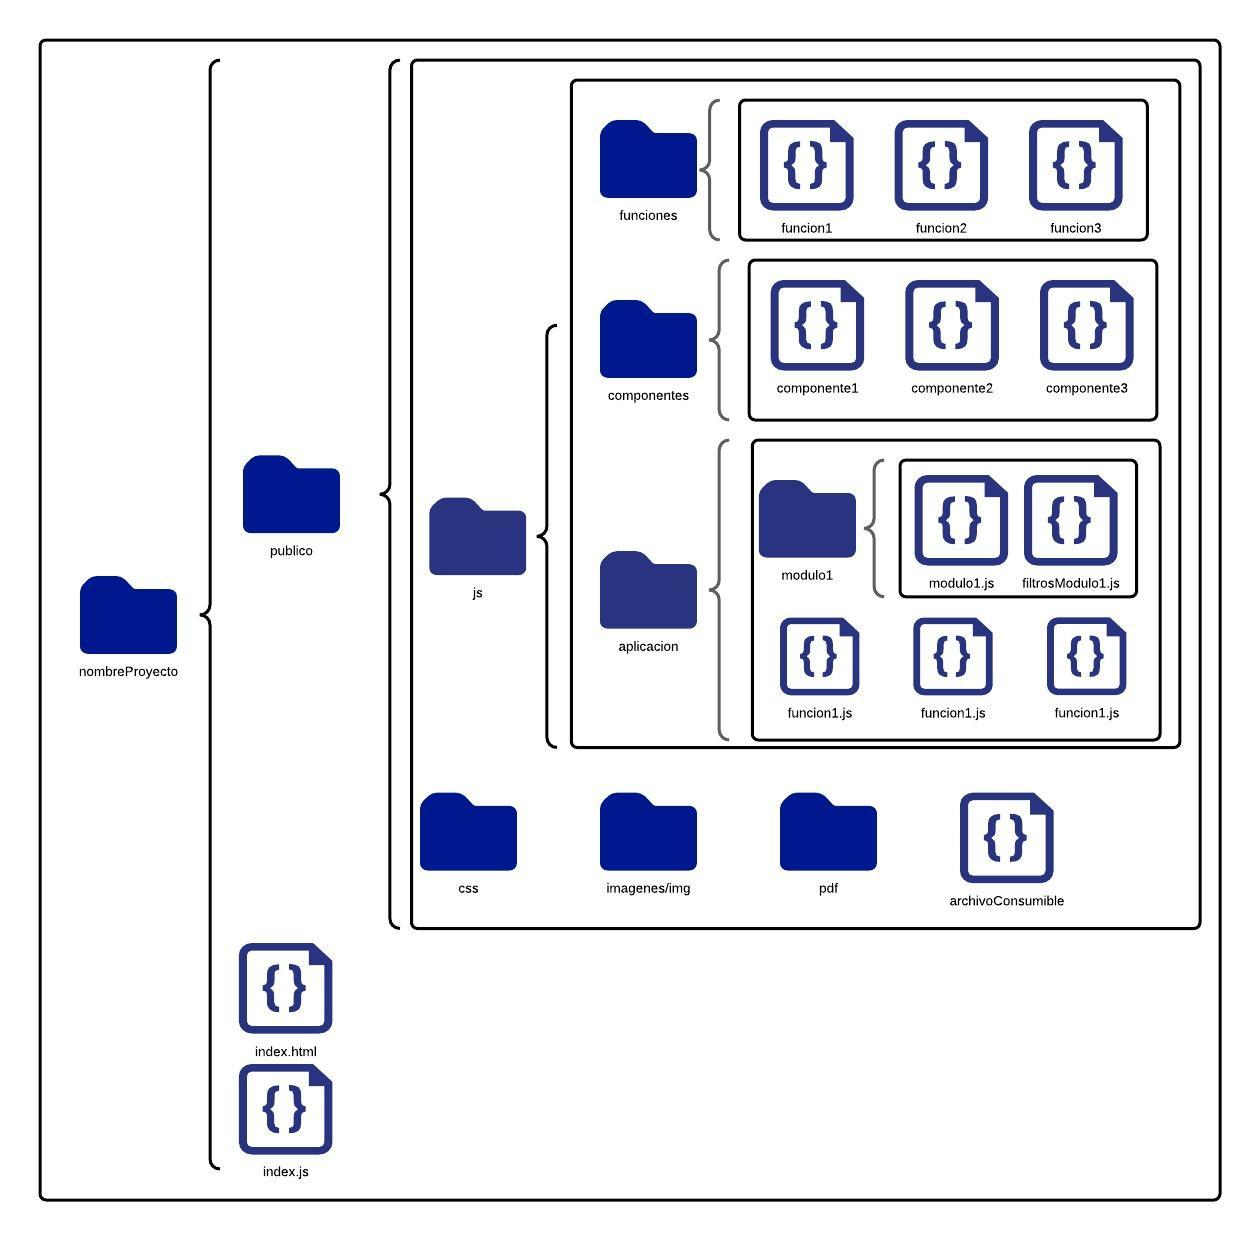
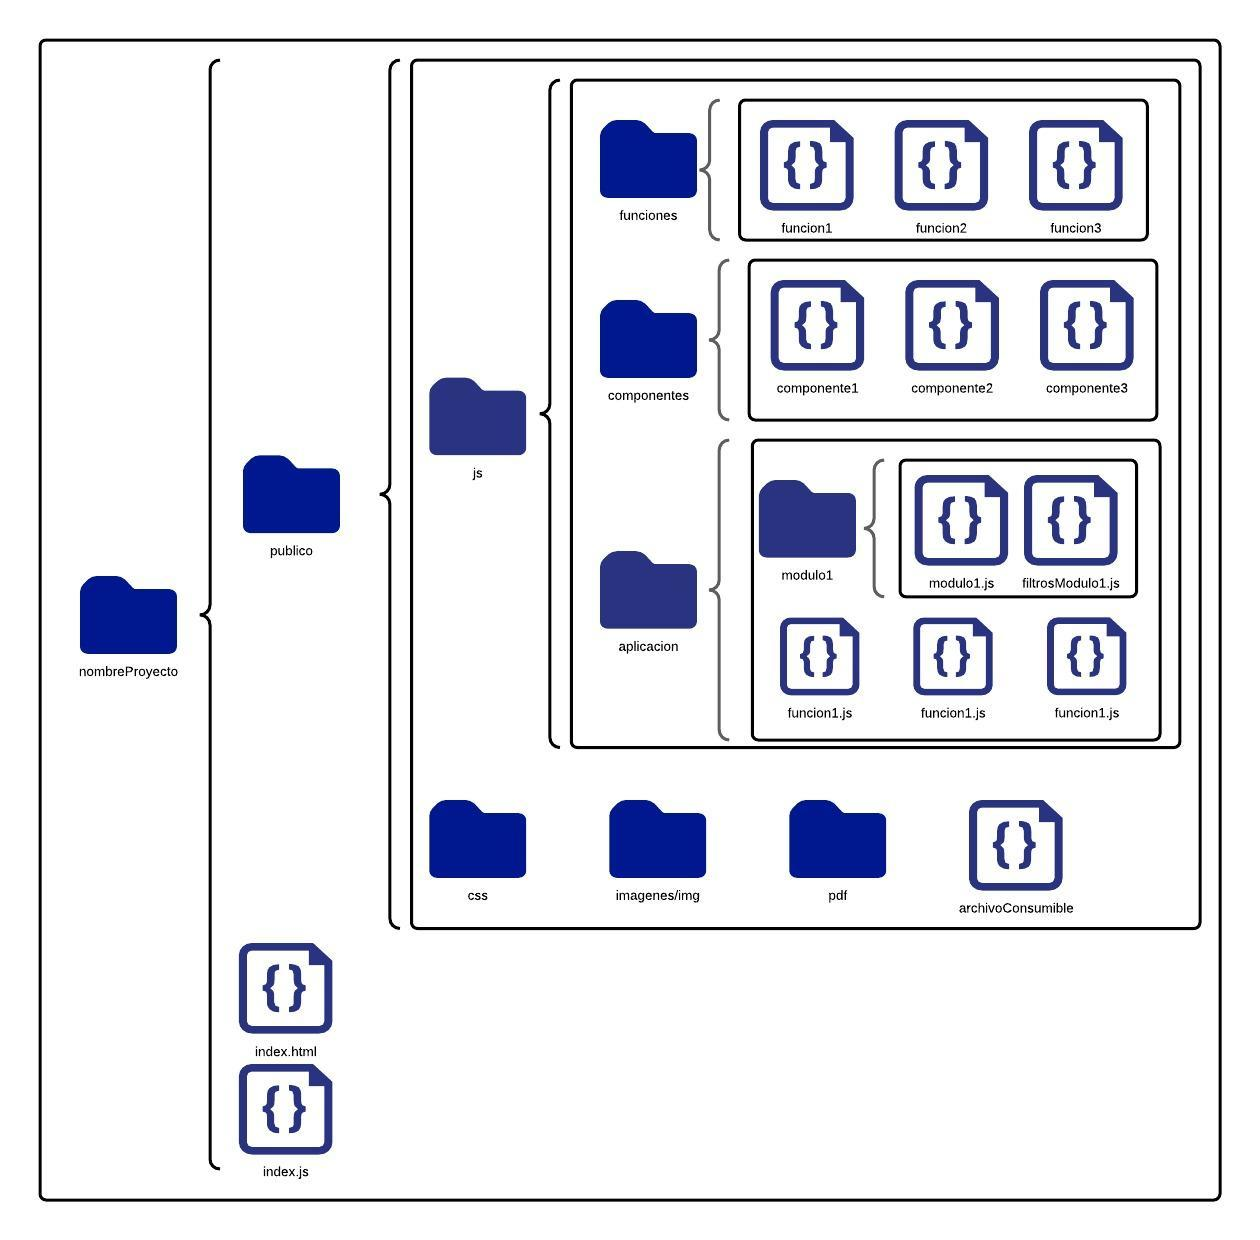
modif

diff --git a/docs/tutorial-organizacion.html b/docs/tutorial-organizacion.html
@@ -46,12 +46,10 @@
 <article>
     <p>Para la organizacion de nuestro proyecto se debe cumplir lo siguiente.</p>
 <p>La carpeta principal se debe llamar igual que el proyecto esto con el fin de que nuestro proyecto sea fácil de identificar.</p>
-<p>Dentro de la carpeta principal se encontrarán 3 carpetas: los <strong>archivos .js</strong>, la carpeta <strong>publico</strong> y los <strong>PHP</strong> al igual que los archivos principales que seran llamados <strong>index.js</strong> e <strong>index.html</strong>.</p>
-<p>Dentro de nuestra carpeta <strong>js</strong> deben de ir todos los archivos <strong>.js</strong> (a excepción del index.js). Esta carpeta se organizará de la siguiente manera: en la raíz de la carpeta se encontrarán todos los componentes, se creará una carpeta llamada <strong>funciones</strong>, se creará una carpeta exclusiva para los módulos del proyecto llamada <strong>aplicación</strong>.</p>
-<p>Dentro de la carpeta <strong>funciones</strong> se almacenaran archivos .js que contengan funciones referentes al framework.</p>
+<p>Dentro de la carpeta principal se encontra una sola carpeta llamada <strong>publico</strong> al igual que los archivos principales que seran llamados <strong>index.js</strong> e <strong>index.html</strong>.</p>
+<p>Dentro de nuestra carpeta <strong>publico</strong> se encontraran las carpetas relacionadas con la aplicacion, esto es, carpetas <em>js, css, img/imagenes, pdf, recibos, etc</em>.</p>
+<p>Dentro de nuestra carpeta <strong>js</strong> deben de ir todos los archivos <strong>.js</strong> (a excepción del index.js). Esta carpeta se organizará de la siguiente manera: en la raíz de la carpeta se encontrarán todos los componentes dentro de su propia carpeta llamada <strong>componentes</strong>, se creará una carpeta llamada <strong>funciones</strong> en la cual se guardaran todas las funciones relacionadas al framework, se creará una carpeta exclusiva para los módulos del proyecto llamada <strong>aplicación</strong>.</p>
 <p>Dentro de la carpeta <strong>aplicacion</strong> en la raíz de dicha carpeta se encontrarán todas las funciones relacionadas con la aplicación, también se debe crear una carpeta por cada módulo que se cree y cada uno tendrá de raíz dos archivos llamados <strong>módulo.js</strong> y <strong>filtrosModulo.js</strong>.</p>
-<p>Dentro de nuestra carpeta <strong>publico</strong> deben de ir todos nuestros archivos que se consumirán en el proyecto, ejemplo de estos son: imágenes, CSS, servicios de SMTP, etc.</p>
-<p>Dentro de la carpeta <strong>php</strong> se debe crear una estructura similar a la de <strong>aplicación</strong> ya que se deben crear en la raíz una carpeta por cada modulo que va a consumir dichos archivos.</p>
 <p><img src="https://github.com/stribesart/Documentacion/blob/main/imagenes/OrganizacionArchivos/index.jpeg?raw=true" alt="OrgProyecto"></p>
 </article>
 
@@ -64,7 +62,7 @@
 <br class="clear">
 
 <footer>
-    Documentation generated by <a href="https://github.com/jsdoc3/jsdoc">JSDoc 3.6.6</a> on Sat Apr 24 2021 11:36:05 GMT-0500 (hora de verano central) using the <a href="https://github.com/clenemt/docdash">docdash</a> theme.
+    Documentation generated by <a href="https://github.com/jsdoc3/jsdoc">JSDoc 3.6.6</a> on Sat Apr 24 2021 13:13:23 GMT-0500 (hora de verano central) using the <a href="https://github.com/clenemt/docdash">docdash</a> theme.
 </footer>
 
 <script>prettyPrint();</script>

diff --git a/docs/Componentes_Select.js.html b/docs/Componentes_Select.js.html
@@ -123,7 +123,7 @@ export async function Select(AOpciones, ACheck = 0) { //Funcion que crea Selects
 <br class="clear">
 
 <footer>
-    Documentation generated by <a href="https://github.com/jsdoc3/jsdoc">JSDoc 3.6.6</a> on Sat Apr 24 2021 11:36:05 GMT-0500 (hora de verano central) using the <a href="https://github.com/clenemt/docdash">docdash</a> theme.
+    Documentation generated by <a href="https://github.com/jsdoc3/jsdoc">JSDoc 3.6.6</a> on Sat Apr 24 2021 13:13:23 GMT-0500 (hora de verano central) using the <a href="https://github.com/clenemt/docdash">docdash</a> theme.
 </footer>
 
 <script>prettyPrint();</script>

diff --git a/docs/tutorial-modulo.html b/docs/tutorial-modulo.html
@@ -239,7 +239,7 @@ Crearemos una funcion llamada <strong>FiltrosUniformes()</strong> y la exportare
 <br class="clear">
 
 <footer>
-    Documentation generated by <a href="https://github.com/jsdoc3/jsdoc">JSDoc 3.6.6</a> on Sat Apr 24 2021 11:36:06 GMT-0500 (hora de verano central) using the <a href="https://github.com/clenemt/docdash">docdash</a> theme.
+    Documentation generated by <a href="https://github.com/jsdoc3/jsdoc">JSDoc 3.6.6</a> on Sat Apr 24 2021 13:13:23 GMT-0500 (hora de verano central) using the <a href="https://github.com/clenemt/docdash">docdash</a> theme.
 </footer>
 
 <script>prettyPrint();</script>

diff --git a/docs/tutorial-moduloGeneral.html b/docs/tutorial-moduloGeneral.html
@@ -73,7 +73,7 @@ Se creara un fragmento con la funcion ya existente CrearFragmento, esto sirve pa
 <br class="clear">
 
 <footer>
-    Documentation generated by <a href="https://github.com/jsdoc3/jsdoc">JSDoc 3.6.6</a> on Sat Apr 24 2021 11:36:06 GMT-0500 (hora de verano central) using the <a href="https://github.com/clenemt/docdash">docdash</a> theme.
+    Documentation generated by <a href="https://github.com/jsdoc3/jsdoc">JSDoc 3.6.6</a> on Sat Apr 24 2021 13:13:23 GMT-0500 (hora de verano central) using the <a href="https://github.com/clenemt/docdash">docdash</a> theme.
 </footer>
 
 <script>prettyPrint();</script>

diff --git a/docs/tutorial-paso3.html b/docs/tutorial-paso3.html
@@ -94,7 +94,7 @@ Actualmente se requiere realizar nuestros proyectos como SPA, esto es para evita
 <br class="clear">
 
 <footer>
-    Documentation generated by <a href="https://github.com/jsdoc3/jsdoc">JSDoc 3.6.6</a> on Sat Apr 24 2021 11:36:05 GMT-0500 (hora de verano central) using the <a href="https://github.com/clenemt/docdash">docdash</a> theme.
+    Documentation generated by <a href="https://github.com/jsdoc3/jsdoc">JSDoc 3.6.6</a> on Sat Apr 24 2021 13:13:23 GMT-0500 (hora de verano central) using the <a href="https://github.com/clenemt/docdash">docdash</a> theme.
 </footer>
 
 <script>prettyPrint();</script>

diff --git a/docs/Componentes_Button.js.html b/docs/Componentes_Button.js.html
@@ -92,7 +92,7 @@ export function Button(text, id, type,dataAttribute, dataValue){
 <br class="clear">
 
 <footer>
-    Documentation generated by <a href="https://github.com/jsdoc3/jsdoc">JSDoc 3.6.6</a> on Sat Apr 24 2021 11:36:05 GMT-0500 (hora de verano central) using the <a href="https://github.com/clenemt/docdash">docdash</a> theme.
+    Documentation generated by <a href="https://github.com/jsdoc3/jsdoc">JSDoc 3.6.6</a> on Sat Apr 24 2021 13:13:23 GMT-0500 (hora de verano central) using the <a href="https://github.com/clenemt/docdash">docdash</a> theme.
 </footer>
 
 <script>prettyPrint();</script>

diff --git a/docs/Componentes_js_ObtieneElementoDom.js.html b/docs/Componentes_js_ObtieneElementoDom.js.html
@@ -75,7 +75,7 @@ export function ObtieneElementoDom(AIdElemento, AQuery = false){
 <br class="clear">
 
 <footer>
-    Documentation generated by <a href="https://github.com/jsdoc3/jsdoc">JSDoc 3.6.6</a> on Sat Apr 24 2021 11:36:05 GMT-0500 (hora de verano central) using the <a href="https://github.com/clenemt/docdash">docdash</a> theme.
+    Documentation generated by <a href="https://github.com/jsdoc3/jsdoc">JSDoc 3.6.6</a> on Sat Apr 24 2021 13:13:23 GMT-0500 (hora de verano central) using the <a href="https://github.com/clenemt/docdash">docdash</a> theme.
 </footer>
 
 <script>prettyPrint();</script>

diff --git a/docs/Componentes_js_ObtieneVariableSession.js.html b/docs/Componentes_js_ObtieneVariableSession.js.html
@@ -65,7 +65,7 @@ export function ObtieneVariableSession(ANombreVariable){
 <br class="clear">
 
 <footer>
-    Documentation generated by <a href="https://github.com/jsdoc3/jsdoc">JSDoc 3.6.6</a> on Sat Apr 24 2021 11:36:05 GMT-0500 (hora de verano central) using the <a href="https://github.com/clenemt/docdash">docdash</a> theme.
+    Documentation generated by <a href="https://github.com/jsdoc3/jsdoc">JSDoc 3.6.6</a> on Sat Apr 24 2021 13:13:23 GMT-0500 (hora de verano central) using the <a href="https://github.com/clenemt/docdash">docdash</a> theme.
 </footer>
 
 <script>prettyPrint();</script>

diff --git a/docs/index.html b/docs/index.html
@@ -77,7 +77,7 @@ Para mas informacion contacto con DCSR.</p></article>
 <br class="clear">
 
 <footer>
-    Documentation generated by <a href="https://github.com/jsdoc3/jsdoc">JSDoc 3.6.6</a> on Sat Apr 24 2021 11:36:05 GMT-0500 (hora de verano central) using the <a href="https://github.com/clenemt/docdash">docdash</a> theme.
+    Documentation generated by <a href="https://github.com/jsdoc3/jsdoc">JSDoc 3.6.6</a> on Sat Apr 24 2021 13:13:23 GMT-0500 (hora de verano central) using the <a href="https://github.com/clenemt/docdash">docdash</a> theme.
 </footer>
 
 <script>prettyPrint();</script>

diff --git a/docs/Componentes_funciones_login.js.html b/docs/Componentes_funciones_login.js.html
@@ -92,7 +92,7 @@ loginForm.addEventListener("submit", async (e) => {
 <br class="clear">
 
 <footer>
-    Documentation generated by <a href="https://github.com/jsdoc3/jsdoc">JSDoc 3.6.6</a> on Sat Apr 24 2021 11:36:05 GMT-0500 (hora de verano central) using the <a href="https://github.com/clenemt/docdash">docdash</a> theme.
+    Documentation generated by <a href="https://github.com/jsdoc3/jsdoc">JSDoc 3.6.6</a> on Sat Apr 24 2021 13:13:23 GMT-0500 (hora de verano central) using the <a href="https://github.com/clenemt/docdash">docdash</a> theme.
 </footer>
 
 <script>prettyPrint();</script>

diff --git a/docs/Componentes_js_Uniformes_TablaUniformes.js.html b/docs/Componentes_js_Uniformes_TablaUniformes.js.html
@@ -152,7 +152,7 @@ export function TablaUniformes(AParameteros) {
 <br class="clear">
 
 <footer>
-    Documentation generated by <a href="https://github.com/jsdoc3/jsdoc">JSDoc 3.6.6</a> on Sat Apr 24 2021 11:36:05 GMT-0500 (hora de verano central) using the <a href="https://github.com/clenemt/docdash">docdash</a> theme.
+    Documentation generated by <a href="https://github.com/jsdoc3/jsdoc">JSDoc 3.6.6</a> on Sat Apr 24 2021 13:13:23 GMT-0500 (hora de verano central) using the <a href="https://github.com/clenemt/docdash">docdash</a> theme.
 </footer>
 
 <script>prettyPrint();</script>

diff --git a/docs/Componentes_js_GeneraElementoDom.js.html b/docs/Componentes_js_GeneraElementoDom.js.html
@@ -64,7 +64,7 @@ export function GeneraElementoDom(AElemento){
 <br class="clear">
 
 <footer>
-    Documentation generated by <a href="https://github.com/jsdoc3/jsdoc">JSDoc 3.6.6</a> on Sat Apr 24 2021 11:36:05 GMT-0500 (hora de verano central) using the <a href="https://github.com/clenemt/docdash">docdash</a> theme.
+    Documentation generated by <a href="https://github.com/jsdoc3/jsdoc">JSDoc 3.6.6</a> on Sat Apr 24 2021 13:13:23 GMT-0500 (hora de verano central) using the <a href="https://github.com/clenemt/docdash">docdash</a> theme.
 </footer>
 
 <script>prettyPrint();</script>
